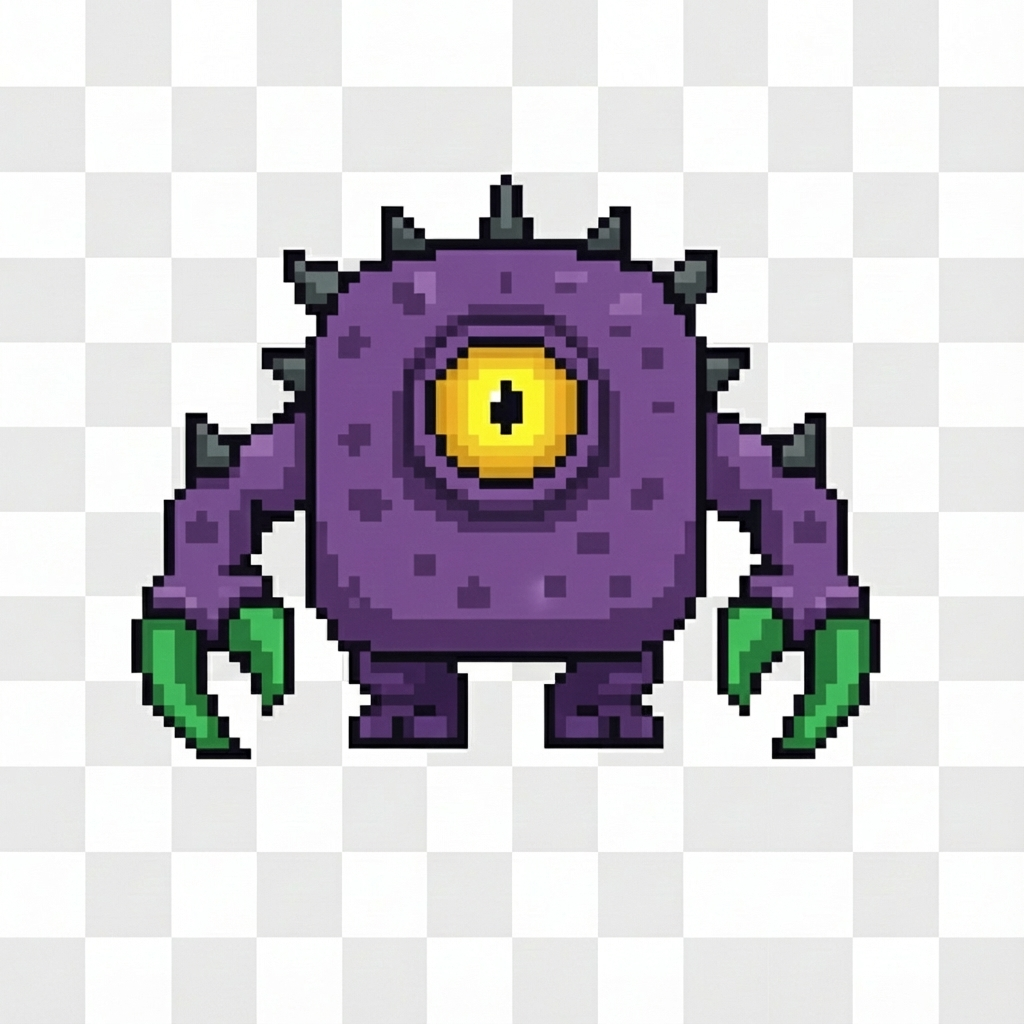
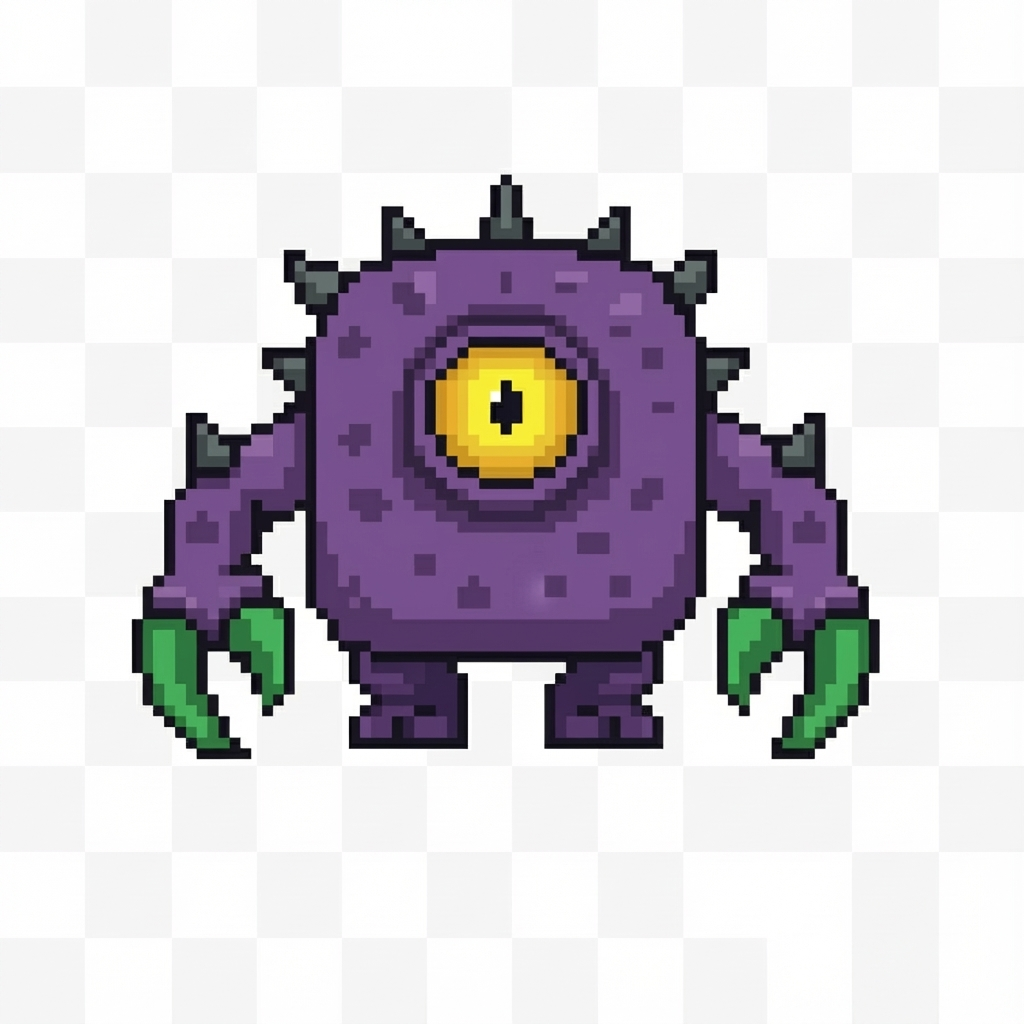
Assets Fix & Combat System: Transparent sprites, click-to-attack, damage numbers, and visual feedback

diff --git a/App.tsx b/App.tsx
@@ -86,6 +86,9 @@ const App: React.FC = () => {
   const particlesRef = useRef<Particle[]>([]);
   const nextParticleIdRef = useRef(0);
 
+  const damageNumbersRef = useRef<Types.DamageNumber[]>([]);
+  const nextDamageNumberIdRef = useRef(0);
+
   useEffect(() => {
     const save = localStorage.getItem(SAVE_KEY);
     setHasSave(!!save);
@@ -108,7 +111,12 @@ const App: React.FC = () => {
     if (loadExisting) {
       const saved = localStorage.getItem(SAVE_KEY);
       if (saved) {
-        setGameState(JSON.parse(saved));
+        const state = JSON.parse(saved);
+        // Reset transient visual states
+        state.entities.forEach((e: any) => {
+          if (e.data) { e.data.hitFlash = 0; }
+        });
+        setGameState(state);
         setScreen('PLAYING');
         return;
       }
@@ -140,7 +148,7 @@ const App: React.FC = () => {
       entities.push({
         id: `e-${i}`, x: pos.x, y: pos.y, type, health: 75,
         data: type === Types.EntityType.CHEST ? { items, isOpen: false } : {
-          nextTarget: null, lastPathUpdate: 0, spawnX: pos.x, spawnY: pos.y, state: 'IDLE'
+          nextTarget: null, lastPathUpdate: 0, spawnX: pos.x, spawnY: pos.y, state: 'IDLE', hitFlash: 0
         }
       });
     });
@@ -150,6 +158,7 @@ const App: React.FC = () => {
       map, entities, isGameOver: false, deathReason: '', message: 'SYSTEM_BOOT_COMPLETE', messageTimeout: 4, chaseActive: false, survivalTime: 0, isPaused: false, activeChestId: null, draggingItemId: null
     });
     setScreen('PLAYING');
+    damageNumbersRef.current = [];
   }, []);
 
   const saveAndExit = () => {
@@ -157,6 +166,91 @@ const App: React.FC = () => {
       localStorage.setItem(SAVE_KEY, JSON.stringify({ ...gameState, isPaused: false }));
       setScreen('MENU');
       setGameState(null);
+    }
+  };
+
+  const spawnDamageNumber = (x: number, y: number, value: number, color: string = '#ef4444') => {
+    damageNumbersRef.current.push({
+      id: nextDamageNumberIdRef.current++,
+      x, y, value, color, life: 1.0
+    });
+  };
+
+  const handleCanvasClick = (e: React.MouseEvent<HTMLCanvasElement>) => {
+    if (!gameState || gameState.isPaused || gameState.isGameOver) return;
+    const rect = canvasRef.current!.getBoundingClientRect();
+    const s = Constants.CELL_SIZE;
+    const ww = window.innerWidth, wh = window.innerHeight;
+
+    // Calculate world coordinates from screen click
+    // ScreenX = ww/2 + (worldX - playerX) * s
+    // worldX = (ScreenX - ww/2) / s + playerX
+    const clickX = (e.clientX - rect.left - ww / 2) / s + gameState.player.x;
+    const clickY = (e.clientY - rect.top - wh / 2) / s + gameState.player.y;
+
+    // Determine active weapon
+    const { player } = gameState;
+    const weapons = [player.inventory.find(i => i?.id === player.equippedLeftId), player.inventory.find(i => i?.id === player.equippedRightId)].filter(Boolean);
+    // Prioritize Gun > Knife
+    const gun = weapons.find(i => i?.type === Types.ItemType.GUN);
+    const knife = weapons.find(i => i?.type === Types.ItemType.KNIFE);
+
+    let attackMade = false;
+    let newEntities = [...gameState.entities];
+
+    if (gun && (gun.count || 0) > 0) {
+      // GUN ATTACK
+      attackMade = true;
+      setGameState(prev => {
+        if (!prev) return null;
+        const nextInv = prev.player.inventory.map(i => i.id === gun.id ? { ...i, count: (i.count! - 1) } : i);
+        return { ...prev, player: { ...prev.player, inventory: nextInv }, message: 'FIRING_SEQUENCE', messageTimeout: 0.5 };
+      });
+
+      // Check hits logic
+      newEntities = newEntities.map(e => {
+        if (e.type === Types.EntityType.MONSTER && e.health! > 0) {
+          const dist = Math.sqrt((e.x - clickX) ** 2 + (e.y - clickY) ** 2);
+          if (dist < 0.8 && isLineOfSightClear(player.x, player.y, e.x, e.y, gameState.map)) {
+            spawnDamageNumber(e.x, e.y - 0.5, 40, '#fbbf24');
+            return { ...e, health: e.health! - 40, data: { ...e.data, hitFlash: 0.2, state: 'CHASING' } };
+          }
+        }
+        return e;
+      });
+
+    } else if (knife && (knife.durability || 0) > 0) {
+      // KNIFE ATTACK
+      // Knife requires clicking ON the monster AND being close
+      const targetMonster = newEntities.find(e => e.type === Types.EntityType.MONSTER && e.health! > 0 && Math.sqrt((e.x - clickX) ** 2 + (e.y - clickY) ** 2) < 0.8);
+
+      if (targetMonster) {
+        const distToPlayer = Math.sqrt((targetMonster.x - player.x) ** 2 + (targetMonster.y - player.y) ** 2);
+        if (distToPlayer < 2.0) {
+          attackMade = true;
+          setGameState(prev => {
+            if (!prev) return null;
+            const nextInv = prev.player.inventory.map(i => i.id === knife.id ? { ...i, durability: (i.durability! - 2) } : i);
+            return { ...prev, player: { ...prev.player, inventory: nextInv }, message: 'MELEE_ENGAGED', messageTimeout: 0.5 };
+          });
+
+          newEntities = newEntities.map(e => {
+            if (e.id === targetMonster.id) {
+              spawnDamageNumber(e.x, e.y - 0.5, 25, '#ef4444');
+              return { ...e, health: e.health! - 25, data: { ...e.data, hitFlash: 0.2, state: 'CHASING' } };
+            }
+            return e;
+          });
+        } else {
+          setGameState(prev => prev ? { ...prev, message: 'TARGET_OUT_OF_RANGE', messageTimeout: 1.0 } : null);
+        }
+      }
+    } else {
+      setGameState(prev => prev ? { ...prev, message: 'NO_WEAPON_READY', messageTimeout: 1.0 } : null);
+    }
+
+    if (attackMade) {
+      setGameState(prev => prev ? { ...prev, entities: newEntities } : null);
     }
   };
 
@@ -173,6 +267,11 @@ const App: React.FC = () => {
         life: p.life - delta
       }))
       .filter(p => p.life > 0);
+
+    // Update Damage Numbers
+    damageNumbersRef.current = damageNumbersRef.current
+      .map(dn => ({ ...dn, y: dn.y - 0.5 * delta, life: dn.life - delta }))
+      .filter(dn => dn.life > 0);
 
     setGameState(prev => {
       if (!prev || prev.isGameOver || prev.isPaused) return prev;
@@ -246,7 +345,12 @@ const App: React.FC = () => {
       let nextEntities = prev.entities.map(e => {
         if (e.type !== Types.EntityType.MONSTER || e.health! <= 0) return e;
         const dP = Math.sqrt((e.x - player.x) ** 2 + (e.y - player.y) ** 2);
-        const nextE = { ...e, data: { ...e.data } };
+
+        // Handle Hit Flash Decay
+        const nextData = { ...e.data };
+        if (nextData.hitFlash > 0) nextData.hitFlash = Math.max(0, nextData.hitFlash - delta);
+
+        const nextE = { ...e, data: nextData };
 
         if (nextE.data.state === 'IDLE') {
           if (dP < 6.0) nextE.data.state = 'CHASING';
@@ -272,7 +376,7 @@ const App: React.FC = () => {
           }
         }
 
-        if (nextE.data.nextTarget) {
+        if (nextE.data.nextTarget && nextE.data.hitFlash <= 0) { // Stun briefly when hit? Maybe not needed, but good for feel
           const ang = Math.atan2(nextE.data.nextTarget.y - nextE.y, nextE.data.nextTarget.x - nextE.x);
           const ms = (nextE.data.state === 'CHASING' ? 2.2 : 1.5) * delta;
           nextE.x += Math.cos(ang) * ms;
@@ -282,55 +386,8 @@ const App: React.FC = () => {
         return nextE;
       });
 
-      // GUN FIRING LOGIC
-      if (keysRef.current['Space'] && time - lastShotTimeRef.current > 400) {
-        const gunId = [player.equippedLeftId, player.equippedRightId].find(id => {
-          const item = player.inventory.find(invIt => invIt.id === id);
-          return item && item.type === Types.ItemType.GUN && item.count! > 0;
-        });
-
-        if (gunId) {
-          lastShotTimeRef.current = time;
-          // Immutably update ammo
-          player.inventory = player.inventory.map(i =>
-            i.id === gunId ? { ...i, count: (i.count || 0) - 1 } : i
-          );
-
-          // Damage calculation
-          nextEntities = nextEntities.map(e => {
-            if (e.type === Types.EntityType.MONSTER && e.health! > 0) {
-              const dist = Math.sqrt((e.x - player.x) ** 2 + (e.y - player.y) ** 2);
-              if (dist < 12 && isLineOfSightClear(player.x, player.y, e.x, e.y, prev.map)) {
-                return { ...e, health: e.health! - 40 };
-              }
-            }
-            return e;
-          });
-          nextMessage = "WEAPON_DISCHARGED";
-          nextMessageTimeout = 2.0;
-        } else {
-          // Check for knife if no gun or no ammo
-          const knifeId = [player.equippedLeftId, player.equippedRightId].find(id => {
-            const item = player.inventory.find(invIt => invIt.id === id);
-            return item && item.type === Types.ItemType.KNIFE && item.durability! > 0;
-          });
-          if (knifeId) {
-            lastShotTimeRef.current = time;
-            player.inventory = player.inventory.map(i =>
-              i.id === knifeId ? { ...i, durability: (i.durability || 0) - 2 } : i
-            );
-            nextEntities = nextEntities.map(e => {
-              if (e.type === Types.EntityType.MONSTER && e.health! > 0) {
-                const dist = Math.sqrt((e.x - player.x) ** 2 + (e.y - player.y) ** 2);
-                if (dist < 2.0) return { ...e, health: e.health! - 25 };
-              }
-              return e;
-            });
-            nextMessage = "MELEE_STRIKE";
-            nextMessageTimeout = 1.0;
-          }
-        }
-      }
+      // No auto-fire anymore, relying on clicks
+      // REMOVED OLD GUN/KNIFE LOGIC HERE
 
       let activeChestId = prev.activeChestId;
       if (keysRef.current['KeyE']) {
@@ -416,7 +473,7 @@ const App: React.FC = () => {
 
     // PREPARE RENDER LIST FOR Y-SORTING
     interface RenderItem {
-      type: 'WALL' | 'ENTITY' | 'PLAYER' | 'PARTICLE';
+      type: 'WALL' | 'ENTITY' | 'PLAYER' | 'PARTICLE' | 'DAMAGE_NUMBER';
       y: number; // sort key (bottom of object)
       draw: () => void;
     }
@@ -447,6 +504,25 @@ const App: React.FC = () => {
       }
     }
 
+    // Add Damage Numbers
+    damageNumbersRef.current.forEach(dn => {
+      renderList.push({
+        type: 'DAMAGE_NUMBER',
+        y: dn.y * s + 100, // Always on top
+        draw: () => {
+          ctx.save();
+          ctx.globalAlpha = dn.life;
+          ctx.fillStyle = dn.color;
+          ctx.font = 'bold 24px monospace';
+          ctx.strokeStyle = 'black';
+          ctx.lineWidth = 3;
+          ctx.strokeText(`-${dn.value}`, dn.x * s, dn.y * s);
+          ctx.fillText(`-${dn.value}`, dn.x * s, dn.y * s);
+          ctx.restore();
+        }
+      });
+    });
+
     // Add Entities
     entities.forEach(e => {
       if (Math.abs(e.x - player.x) > rangeX || Math.abs(e.y - player.y) > rangeY) return;
@@ -468,12 +544,25 @@ const App: React.FC = () => {
             const size = 50;
             if (monsterImgRef.current) {
               ctx.save();
+              // Hit Flash Effect
+              if (e.data.hitFlash > 0) {
+                // Simple red tint via composite or filter simulation
+                ctx.globalAlpha = 0.7;
+                ctx.fillStyle = '#ef4444';
+                ctx.beginPath(); ctx.arc(e.x * s, e.y * s - 15, size / 2, 0, Math.PI * 2); ctx.fill();
+                ctx.globalAlpha = 1.0;
+              }
+
               // Simple bounce animation for monster
               const bounce = Math.sin(performance.now() * 0.005 + e.x) * 3;
-              ctx.drawImage(monsterImgRef.current, e.x * s - size / 2, e.y * s - size / 2 - 15 + bounce, size, size);
+              // Shake if hit
+              const shake = e.data.hitFlash > 0 ? (Math.random() - 0.5) * 5 : 0;
+
+              ctx.drawImage(monsterImgRef.current, e.x * s - size / 2 + shake, e.y * s - size / 2 - 15 + bounce, size, size);
               ctx.restore();
             } else {
-              ctx.fillStyle = '#7f1d1d'; ctx.beginPath(); ctx.arc(e.x * s, e.y * s, 15, 0, Math.PI * 2); ctx.fill();
+              ctx.fillStyle = e.data.hitFlash > 0 ? '#ef4444' : '#7f1d1d';
+              ctx.beginPath(); ctx.arc(e.x * s, e.y * s, 15, 0, Math.PI * 2); ctx.fill();
             }
           }
         }
@@ -631,7 +720,7 @@ const App: React.FC = () => {
 
   return (
     <div className="relative w-screen h-screen bg-black text-zinc-200 font-mono overflow-hidden select-none" onMouseUp={() => onDrop('inv')}>
-      <canvas ref={canvasRef} className="absolute inset-0 block w-full h-full" />
+      <canvas ref={canvasRef} onClick={handleCanvasClick} className="absolute inset-0 block w-full h-full cursor-crosshair" />
 
       {/* STATS PANEL */}
       <div className="absolute top-8 left-8 p-6 bg-zinc-950/80 backdrop-blur-2xl border border-zinc-800 rounded-3xl w-72 pointer-events-auto">

diff --git a/types.ts b/types.ts
@@ -20,13 +20,22 @@ export enum EntityType {
   MONSTER = 'MONSTER'
 }
 
+export interface DamageNumber {
+  id: number;
+  x: number;
+  y: number;
+  value: number;
+  life: number;
+  color: string;
+}
+
 export interface Entity {
   id: string;
   x: number;
   y: number;
   type: EntityType;
   health?: number;
-  data?: any; 
+  data?: any;
 }
 
 export interface Player {
